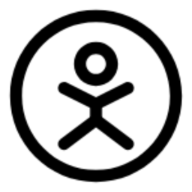
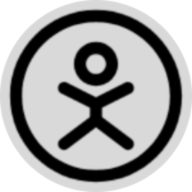
feat: added loading behavior when doing analysis

diff --git a/popup/popup.html b/popup/popup.html
@@ -53,10 +53,38 @@
     </button>
   </header>
 
-  <main id="accessiblity-report" class="d-none">
-    <span class="accessiblity-report--content"></span>
+  <div id="loading" class="d-none">
+    <div class="lds-circle">
+      <svg width="100%" height="100%" viewBox="0 0 24 24" version="1.1" xmlns="http://www.w3.org/2000/svg"
+        xmlns:xlink="http://www.w3.org/1999/xlink" xml:space="preserve" xmlns:serif="http://www.serif.com/"
+        style="fill-rule:evenodd;clip-rule:evenodd;stroke-linejoin:round;stroke-miterlimit:2;">
+        <title>accessibility icon</title>
+        <g id="Icon">
+          <path
+            d="M12,1.25c5.933,-0 10.75,4.817 10.75,10.75c0,5.933 -4.817,10.75 -10.75,10.75c-5.933,0 -10.75,-4.817 -10.75,-10.75c-0,-5.933 4.817,-10.75 10.75,-10.75Zm-0,1.5c-5.105,-0 -9.25,4.145 -9.25,9.25c-0,5.105 4.145,9.25 9.25,9.25c5.105,0 9.25,-4.145 9.25,-9.25c0,-5.105 -4.145,-9.25 -9.25,-9.25Z">
+          </path>
+          <path
+            d="M12,5.25c1.518,0 2.75,1.232 2.75,2.75c-0,1.518 -1.232,2.75 -2.75,2.75c-1.518,0 -2.75,-1.232 -2.75,-2.75c-0,-1.518 1.232,-2.75 2.75,-2.75Zm-0,1.5c-0.69,-0 -1.25,0.56 -1.25,1.25c-0,0.69 0.56,1.25 1.25,1.25c0.69,0 1.25,-0.56 1.25,-1.25c-0,-0.69 -0.56,-1.25 -1.25,-1.25Z">
+          </path>
+          <path
+            d="M11.25,13c-0,-0.414 0.336,-0.75 0.75,-0.75c0.414,-0 0.75,0.336 0.75,0.75l-0,2c-0,0.414 -0.336,0.75 -0.75,0.75c-0.414,-0 -0.75,-0.336 -0.75,-0.75l-0,-2Z">
+          </path>
+          <path
+            d="M8.45,18.6c-0.331,0.248 -0.802,0.181 -1.05,-0.15c-0.248,-0.331 -0.181,-0.802 0.15,-1.05l4,-3c0.267,-0.2 0.633,-0.2 0.9,-0l4,3c0.331,0.248 0.398,0.719 0.15,1.05c-0.248,0.331 -0.719,0.398 -1.05,0.15l-3.55,-2.663l-3.55,2.663Z">
+          </path>
+          <path
+            d="M7.665,11.671c-0.371,-0.185 -0.521,-0.636 -0.336,-1.006c0.185,-0.371 0.636,-0.521 1.006,-0.336l3.665,1.832l3.665,-1.832c0.37,-0.185 0.821,-0.035 1.006,0.336c0.185,0.37 0.035,0.821 -0.336,1.006l-4,2c-0.211,0.105 -0.459,0.105 -0.67,-0l-4,-2Z">
+          </path>
+        </g>
+      </svg>
+    </div>
+    Carregando...
+  </div>
 
-    <button id="rerun" class="link accessiblity-report--btn">
+  <main id="accessibility-report" class="d-none">
+    <span class="accessibility-report--content"></span>
+
+    <button id="rerun" class="link accessibility-report--btn">
       <svg width="24" height="24" viewBox="0 0 24 24" fill="none" xmlns="http://www.w3.org/2000/svg">
         <title>rerun - it re runs the verification</title>
         <path
@@ -66,9 +94,8 @@
     </button>
   </main>
 
-  <div class="btn-container">
+  <div id="buttons" class="btn-container">
     <button id="run">
-      Verificar página
       <svg xmlns="http://www.w3.org/2000/svg" viewBox="0 0 64 64">
         <title>run - it runs the verification on the page for the first time</title>
         <defs>
@@ -87,6 +114,7 @@
           </g>
         </g>
       </svg>
+      Verificar página
     </button>
     <button id="highlight" class="d-none">
       Mostrar na página

diff --git a/popup/popup.js b/popup/popup.js
@@ -18,7 +18,7 @@
   }
 
   function populateData(counter = 0) {
-    const container = document.getElementById('accessiblity-report');
+    const container = document.getElementById('accessibility-report');
 
     if (!container) return;
 
@@ -31,13 +31,13 @@
         return;
       }
 
-      toggleNode('accessiblity-report', true);
+      toggleLoading();
 
       if (hasBeenClicked('highlight')) {
         sendEvent(EVENTS.HIGHLIGHT);
       };
 
-      const content = container.querySelector('.accessiblity-report--content');
+      const content = container.querySelector('.accessibility-report--content');
 
       if (!content) return;
 
@@ -76,20 +76,37 @@
     return button && button.hasBeenClicked;
   }
 
+  function toggleLoading() {
+    toggleNode('loading');
+
+    const loading = document.getElementById('loading');
+
+    if (!loading) return;
+
+    if (getComputedStyle(loading).display === 'none') {
+      toggleNode('buttons', true);
+      toggleNode('highlight', true);
+      toggleNode('export', true);
+      toggleNode('report', true);
+      toggleNode('accessibility-report', true);
+    } else {
+      toggleNode('buttons', false);
+      toggleNode('accessibility-report', false);
+    }
+  }
+
   document.addEventListener('DOMContentLoaded', () => {
     const start = () => {
+      toggleLoading();
       sendEvent(EVENTS.RUN);
-      populateData();
+      setTimeout(() => populateData(), 1000);
     }
 
     // FIRST RUN BUTTON LISTENER
     listenButtonClick('run', () => {
       start();
 
-      // HANDLE OTHER BUTTONS AFTER FIRST RUN
-      toggleNode('highlight', true);
-      toggleNode('export', true);
-      toggleNode('report', true);
+      // REMOVE BUTTON AFTER FIRST RUN
       removeNode(null, 'run');
     }, true);
 
@@ -110,7 +127,7 @@
       const url = URL.createObjectURL(blob);
       chrome.downloads.download({
         url: url,
-        filename: 'accessiblity-report.json'
+        filename: 'accessibility-report.json'
       });
     });
     listenButtonClick('highlight', () => {

diff --git a/popup/popup.css b/popup/popup.css
@@ -1,4 +1,4 @@
-#accessiblity-report>button.accessiblity-report--btn#rerun {
+#accessibility-report>button.accessibility-report--btn#rerun {
   position: absolute;
   top: .5rem;
   right: .5rem;
@@ -15,7 +15,7 @@ button > svg {
   height: 14px;
 }
 
-button.accessiblity-report--btn#rerun > svg {
+button.accessibility-report--btn#rerun > svg {
   width: 1rem;
   height: 1rem;
 }
@@ -24,3 +24,45 @@ div.btn-container button#run,
 div.btn-container button#report {
   grid-column: span 2;
 }
+
+/* LOADING */
+@keyframes lds-circle {
+  0%, 100% {
+    animation-timing-function: cubic-bezier(0.5, 0, 1, 0.5);
+  }
+  0% {
+    transform: rotateY(0deg);
+  }
+  50% {
+    transform: rotateY(1800deg);
+    animation-timing-function: cubic-bezier(0, 0.5, 0.5, 1);
+  }
+  100% {
+    transform: rotateY(3600deg);
+  }
+}
+
+div#loading:not(.d-none) {
+  display: flex;
+  flex-direction: column;
+  align-items: center;
+  justify-content: center;
+  width: 100%;
+}
+
+div#loading .lds-circle,
+div#loading .lds-circle div {
+  box-sizing: border-box;
+}
+div#loading .lds-circle {
+  display: inline-block;
+  transform: translateZ(1px);
+}
+div#loading .lds-circle > svg {
+  display: inline-block;
+  width: 1.75rem;
+  height: 1.75rem;
+  margin: .25rem;
+  animation: lds-circle 5s cubic-bezier(0, 0.2, 0.8, 1) infinite;
+}
+/* LOADING */

diff --git a/styles/global.css b/styles/global.css
@@ -51,7 +51,7 @@ code {
   overflow-x: auto;
 }
 
-#accessiblity-report {
+#accessibility-report {
   background-color: #f3f3f3;
   border-radius: .25rem;
   padding: 1rem;
@@ -73,9 +73,9 @@ div.btn-container button {
 button {
   font-size: 14px;
   padding: .5rem 1rem;
-  border: 1px solid #ebebeb;
+  border: 1px solid #dcdcdc;
   border-radius: .25rem;
-  background-color: #ebebeb;
+  background-color: transparent;
   color: #222;
   cursor: pointer;
   display: flex;
@@ -89,6 +89,7 @@ button.link {
   background-color: transparent;
   padding: .5rem;
   border: none;
+  border-radius: 50%;
 }
 
 button:hover {
@@ -96,5 +97,5 @@ button:hover {
 }
 
 .d-none {
-  display: none;
+  display: none !important;
 }

diff --git a/utils/utils.js b/utils/utils.js
@@ -124,6 +124,8 @@ function toggleNode(id, shouldShow = null) {
 
   if (!node) return;
 
+  console.log(`Toggling node: ${id} - shouldShow: ${shouldShow}`);
+
   if (shouldShow == true || (shouldShow == null && node.classList.contains('d-none'))) {
     node.classList.remove('d-none');
   } else if (shouldShow == false || (shouldShow == null && !node.classList.contains('d-none'))) {

diff --git a/report/report.html b/report/report.html
@@ -40,7 +40,7 @@
     <h1>Relatório de Acessibilidade ABNT NBR 17225</h1>
   </header>
 
-  <main id="accessiblity-report" class="report-content">
+  <main id="accessibility-report" class="report-content">
     O conteúdo do relatório será gerado aqui.
   </main>
 

diff --git a/CHANGELOG.md b/CHANGELOG.md
@@ -1,5 +1,9 @@
 # Changelog
 
+### [0.0.5] - 2025-06-28
+
+- Adicionado loading quando realizando análise da página
+
 ### [0.0.4] - 2025-06-27
 
 - Ajustado comportamento para analisar por demanda
